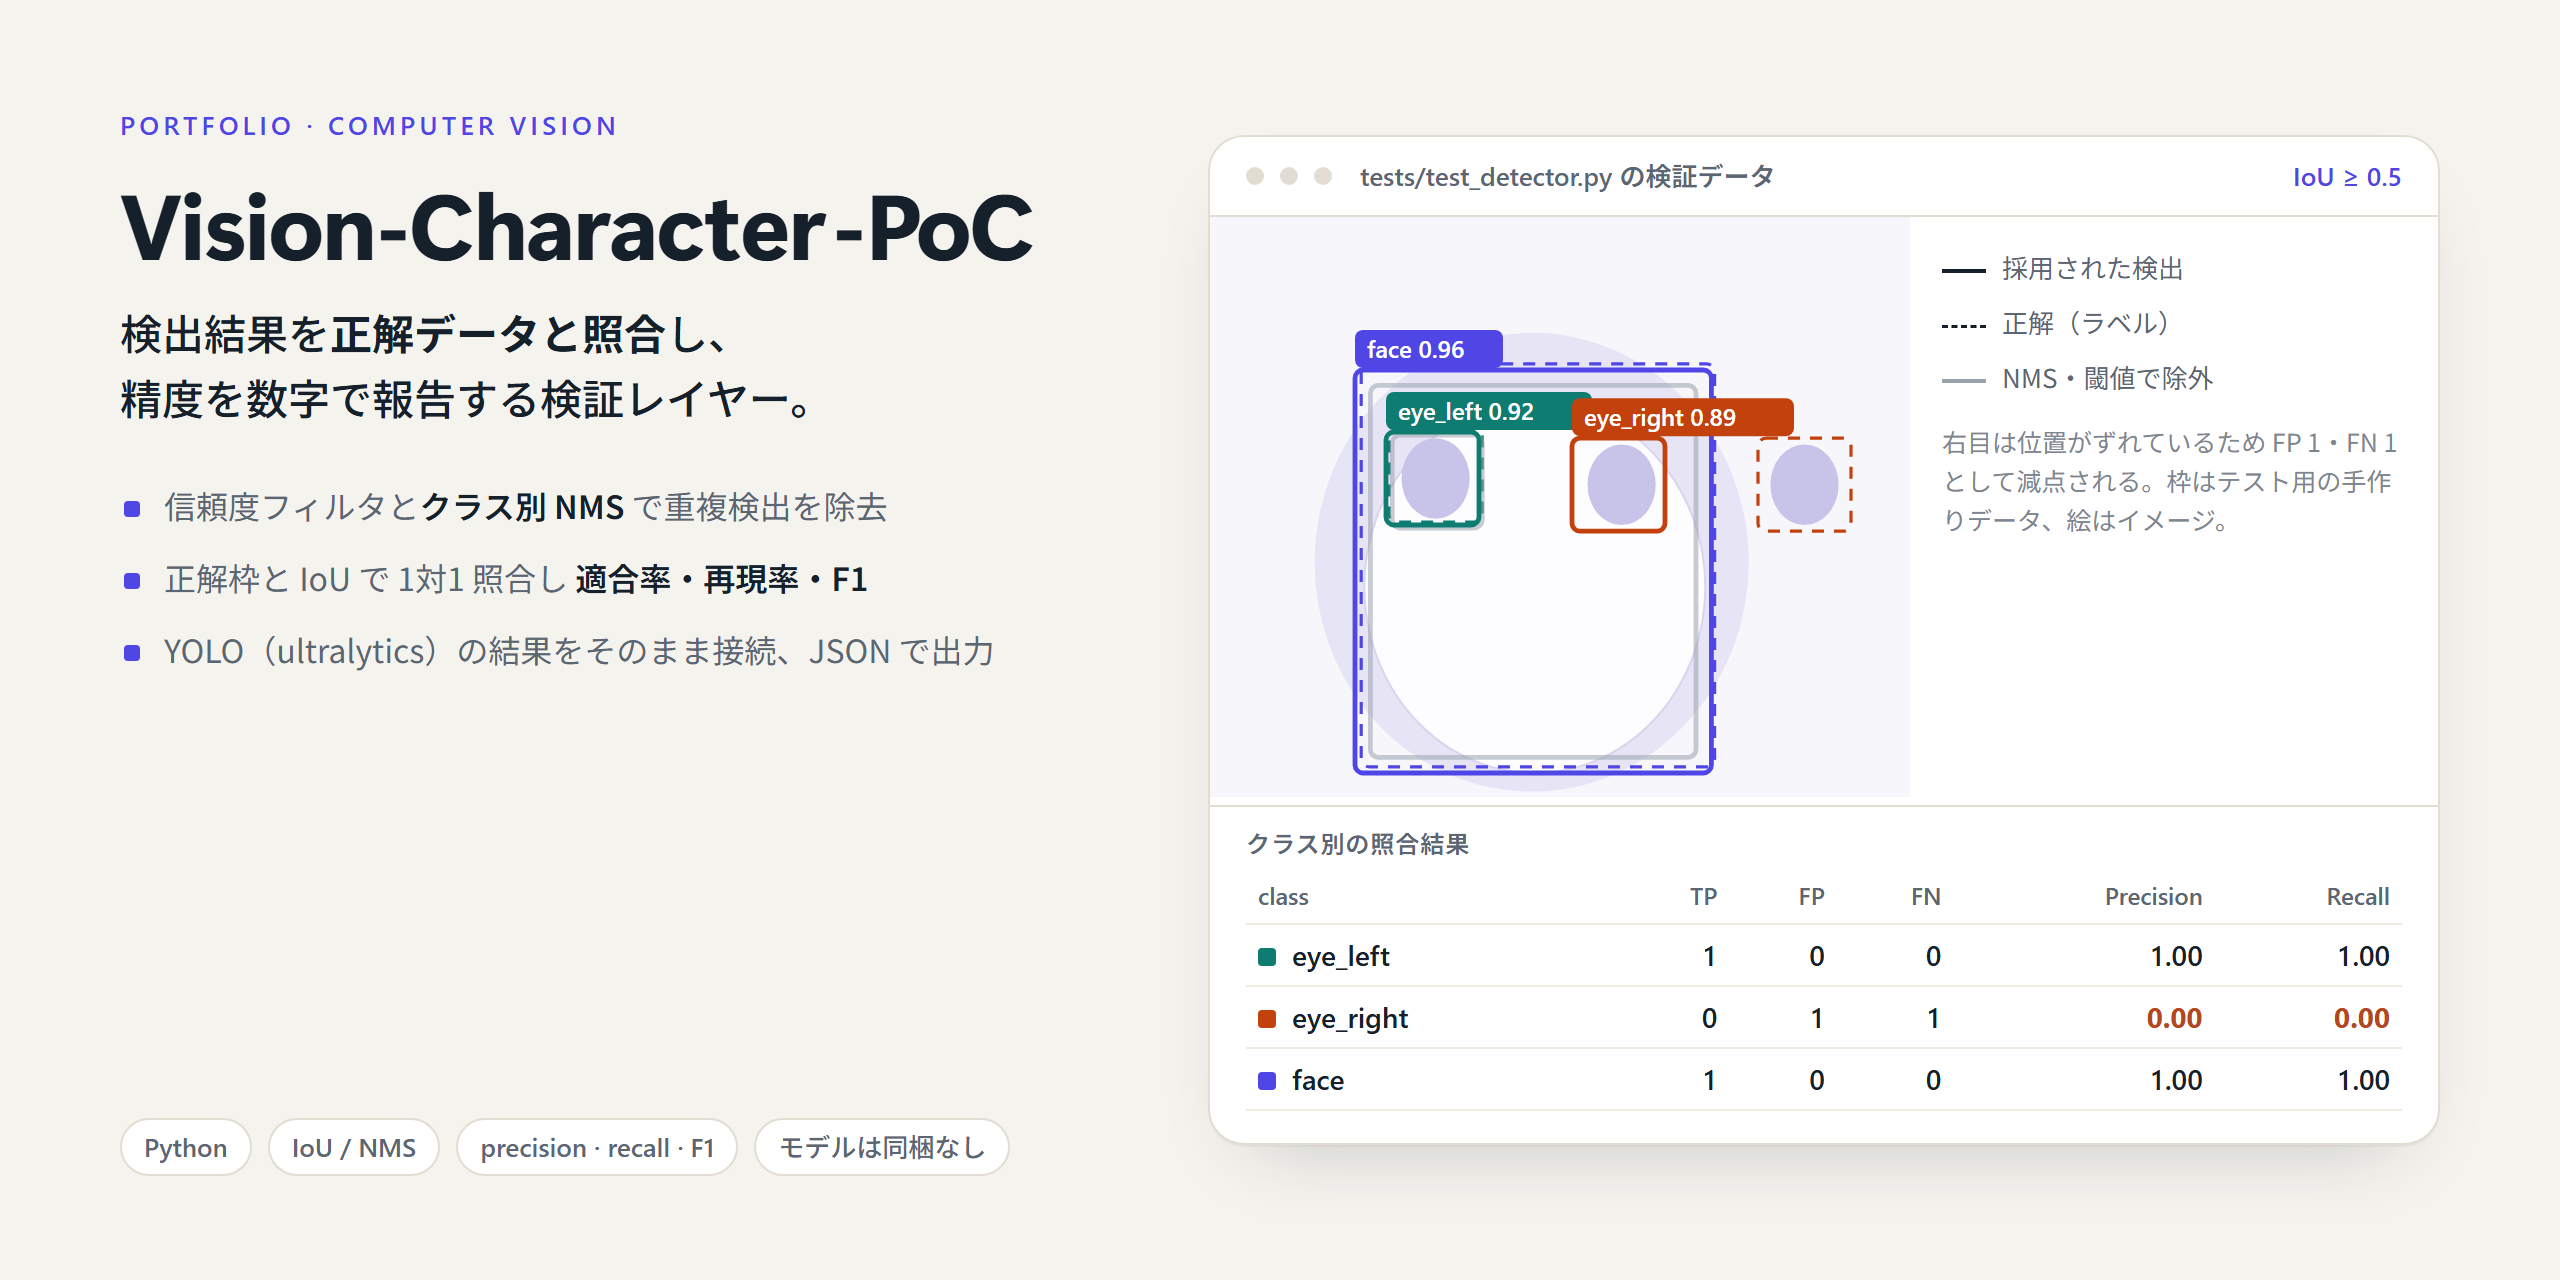
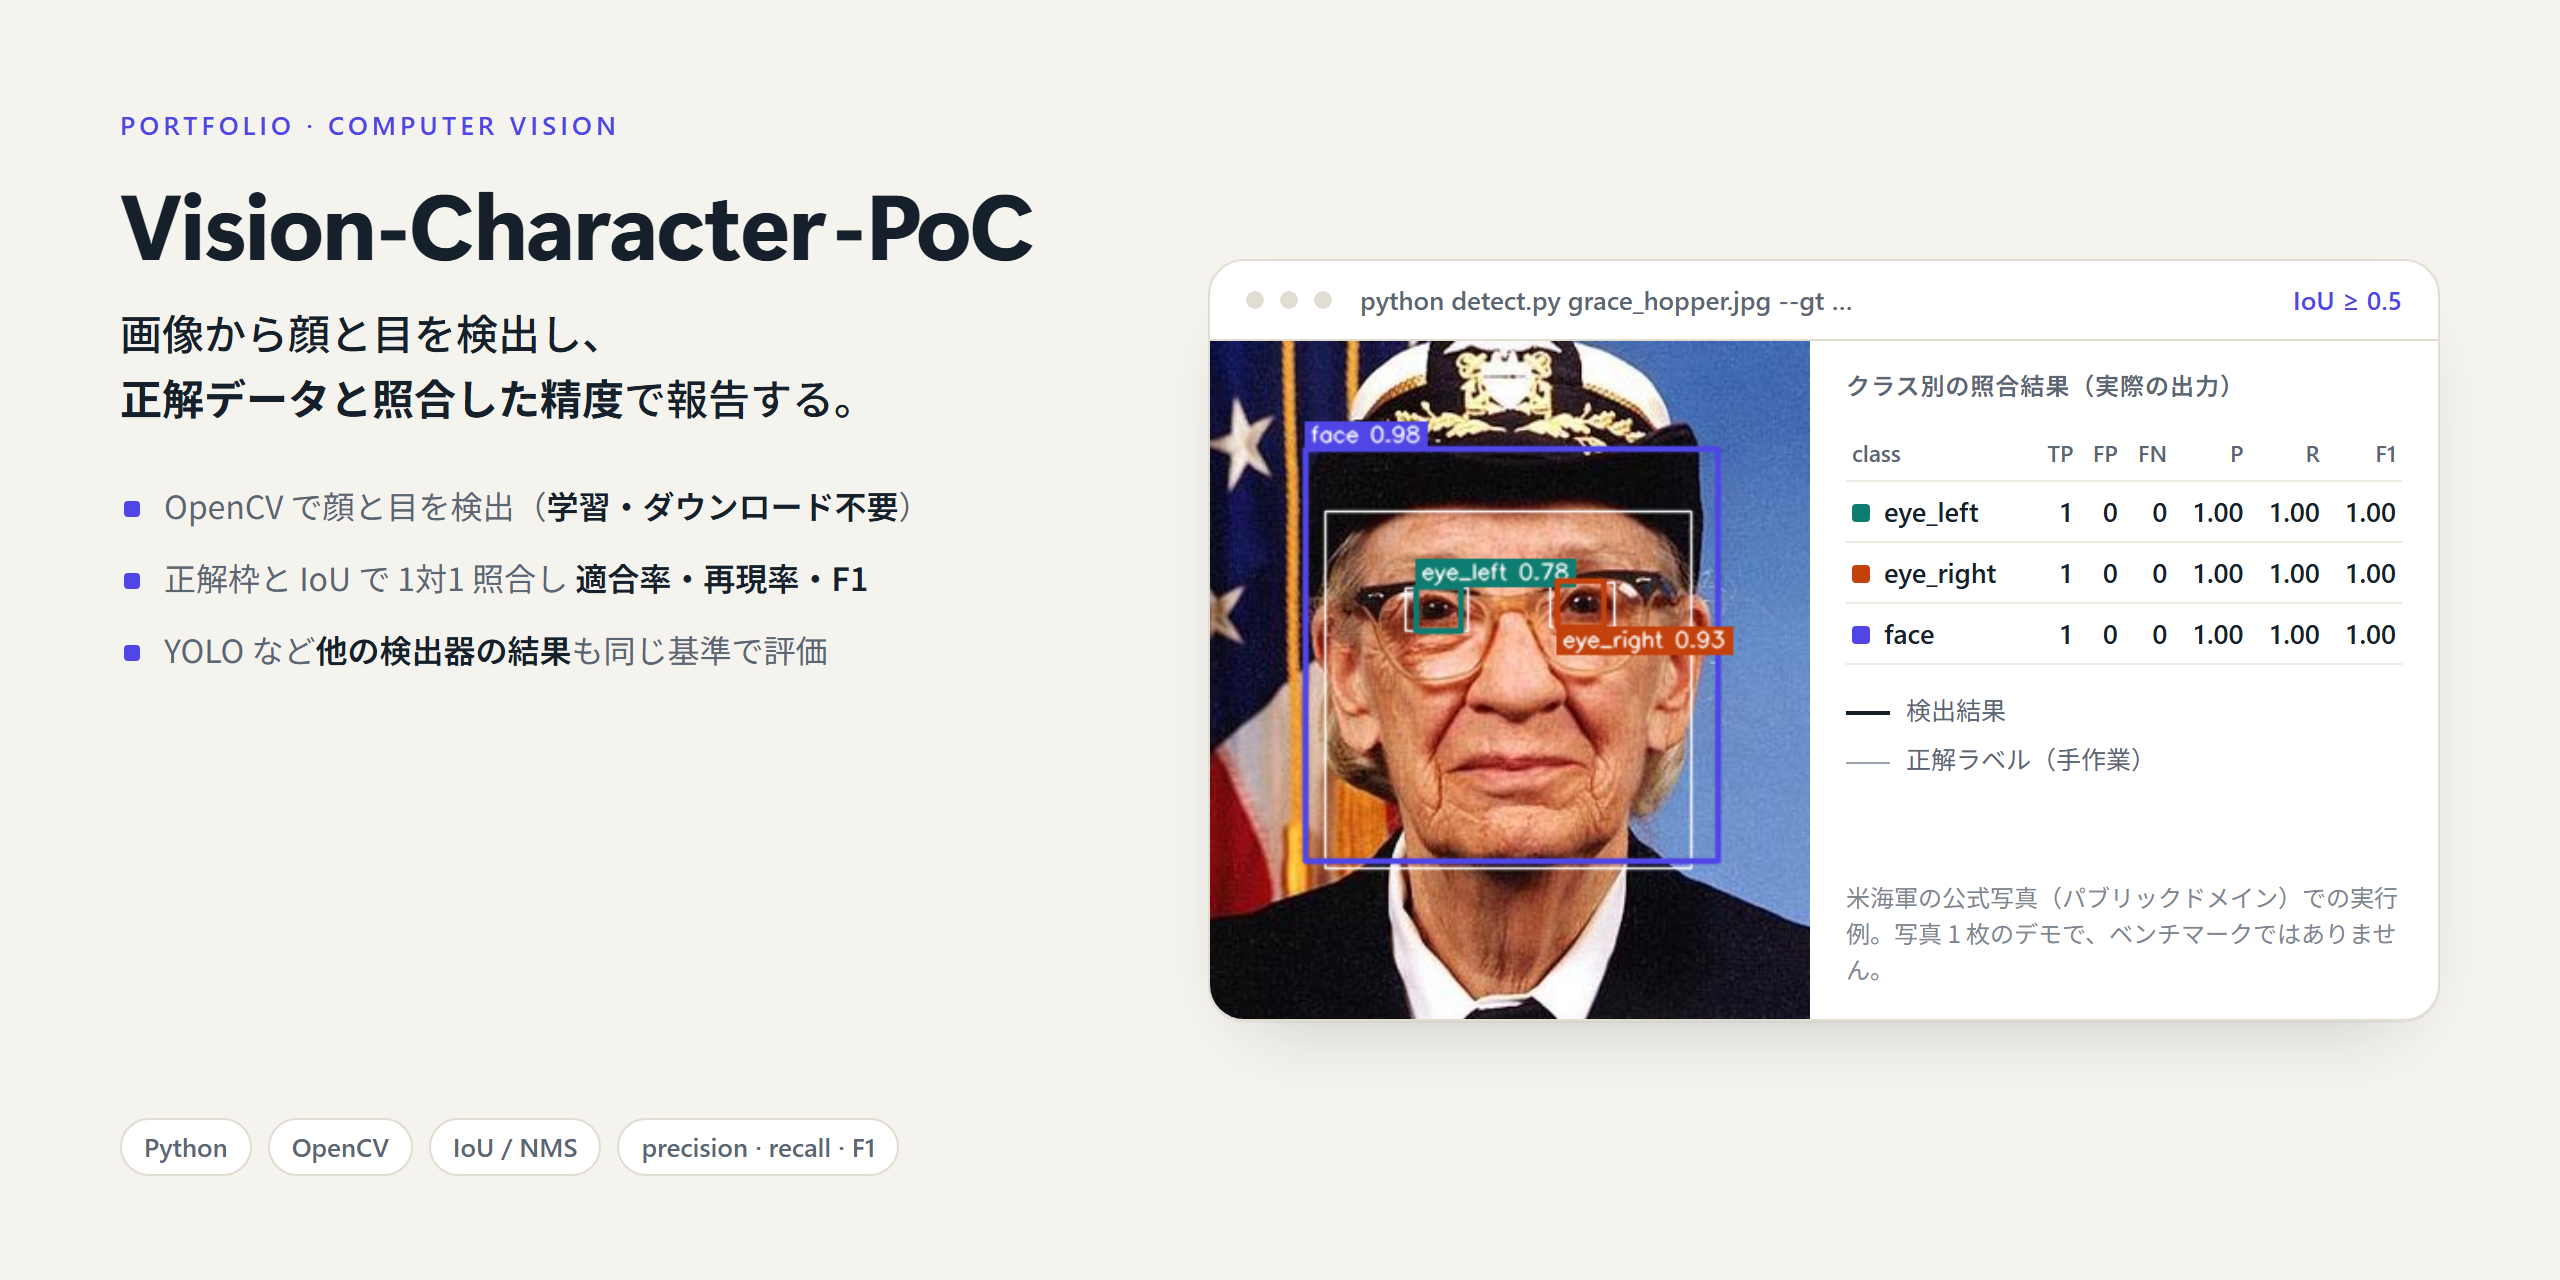
docs: refresh cover image with real detection; keep labels from overlapping

diff --git a/src/haar.py b/src/haar.py
@@ -65,13 +65,22 @@ def draw(image_path: str | Path, out_path: str | Path, predictions: List[Detecti
     colors = {"face": (229, 70, 79), "eye_left": (112, 124, 14), "eye_right": (12, 65, 194)}
     for g in ground_truth or []:
         cv2.rectangle(image, (int(g.x1), int(g.y1)), (int(g.x2), int(g.y2)), (255, 255, 255), 1, cv2.LINE_AA)
-    for b in predictions:
+    placed = []  # label rectangles already drawn, to keep labels from covering each other
+
+    def overlaps(r):
+        return any(r[0] < q[2] and q[0] < r[2] and r[1] < q[3] and q[1] < r[3] for q in placed)
+
+    for b in sorted(predictions, key=lambda b: b.x1):
         c = colors.get(b.class_name, (0, 200, 255))
         cv2.rectangle(image, (int(b.x1), int(b.y1)), (int(b.x2), int(b.y2)), c, 2, cv2.LINE_AA)
         label = f"{b.class_name} {b.confidence:.2f}"
         (tw, th), _ = cv2.getTextSize(label, cv2.FONT_HERSHEY_SIMPLEX, 0.4, 1)
-        cv2.rectangle(image, (int(b.x1), int(b.y1) - th - 6), (int(b.x1) + tw + 6, int(b.y1)), c, -1)
-        cv2.putText(image, label, (int(b.x1) + 3, int(b.y1) - 4), cv2.FONT_HERSHEY_SIMPLEX, 0.4, (255, 255, 255), 1, cv2.LINE_AA)
+        above = (int(b.x1), int(b.y1) - th - 6, int(b.x1) + tw + 6, int(b.y1))
+        below = (int(b.x1), int(b.y2), int(b.x1) + tw + 6, int(b.y2) + th + 6)
+        r = below if overlaps(above) or above[1] < 0 else above
+        placed.append(r)
+        cv2.rectangle(image, (r[0], r[1]), (r[2], r[3]), c, -1)
+        cv2.putText(image, label, (r[0] + 3, r[3] - 4), cv2.FONT_HERSHEY_SIMPLEX, 0.4, (255, 255, 255), 1, cv2.LINE_AA)
     out = Path(out_path)
     cv2.imwrite(str(out), image)
     return out
